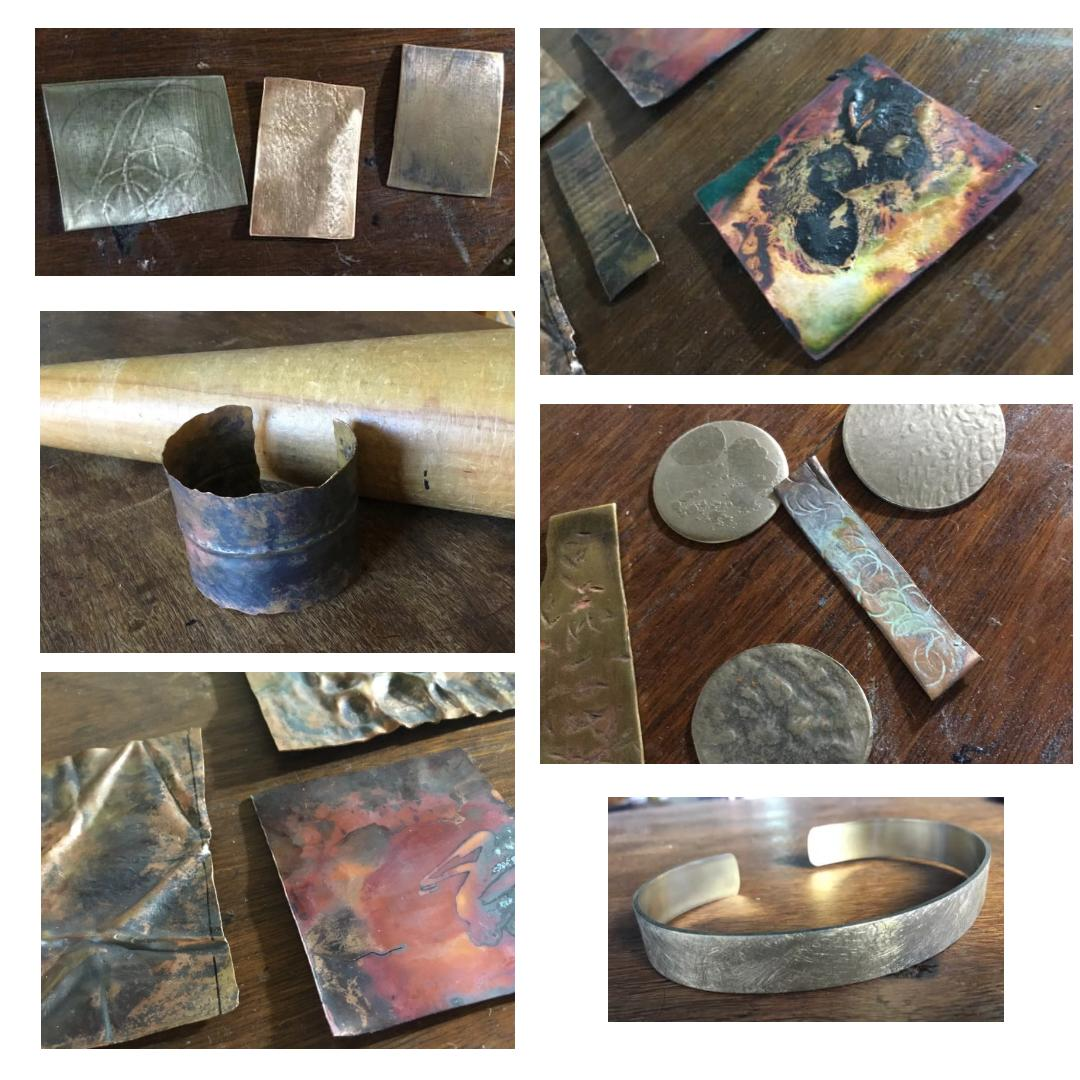
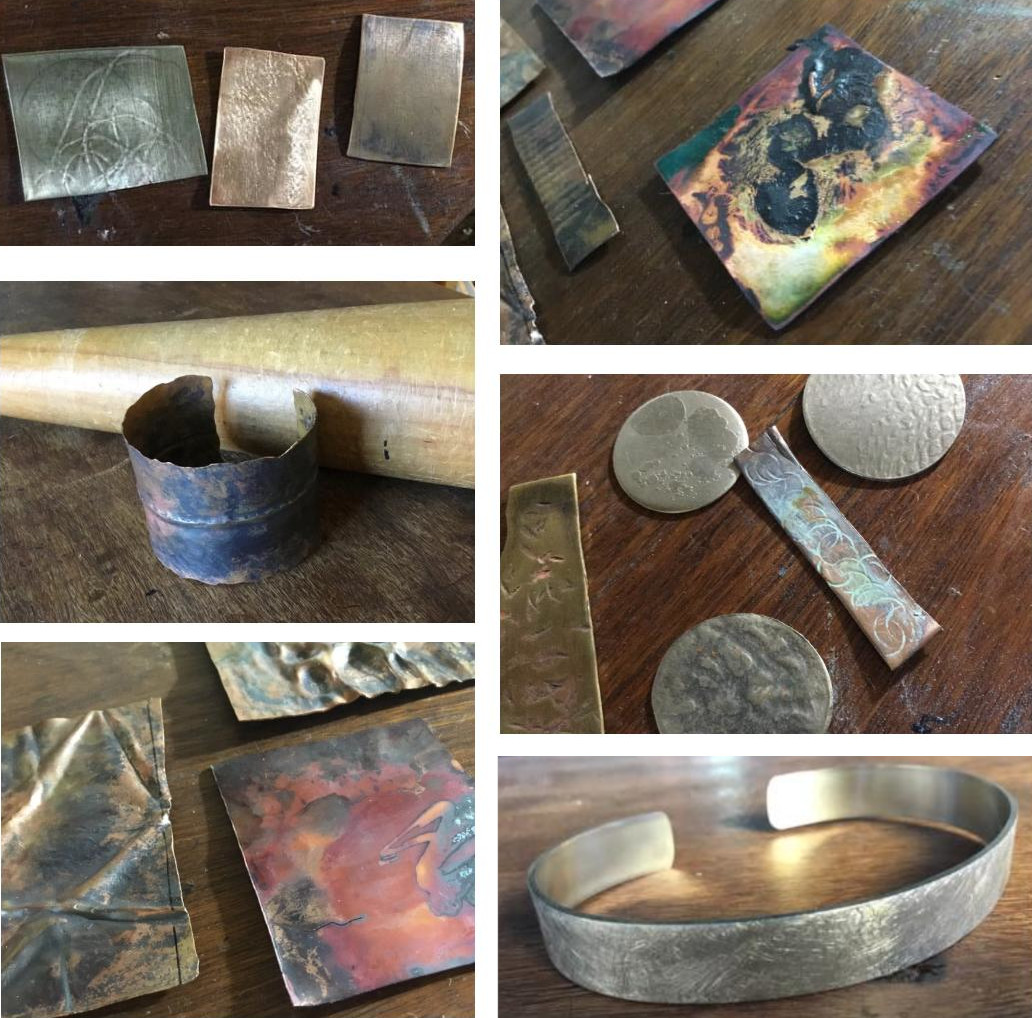
Ajustes de estilo

diff --git a/css/style.css b/css/style.css
@@ -863,8 +863,8 @@ select#page_lang {
 #classes_panel .images img {
     display: inline-block;
     margin: 3px;
-    max-height: 60vh;
-    max-width: 60vw;
+    _max-height: 60vh;
+    max-width: 30vw;
     padding: 0;
     user-select: none;
 }
